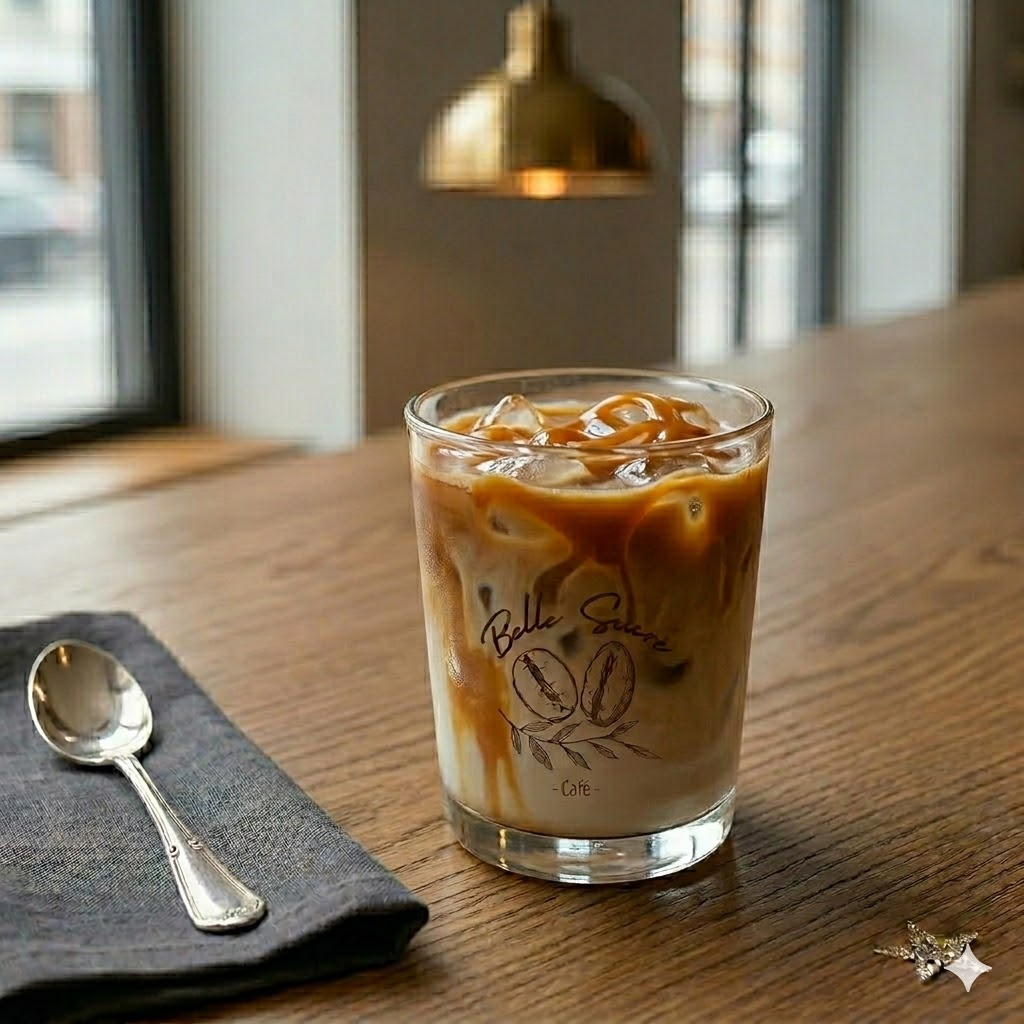
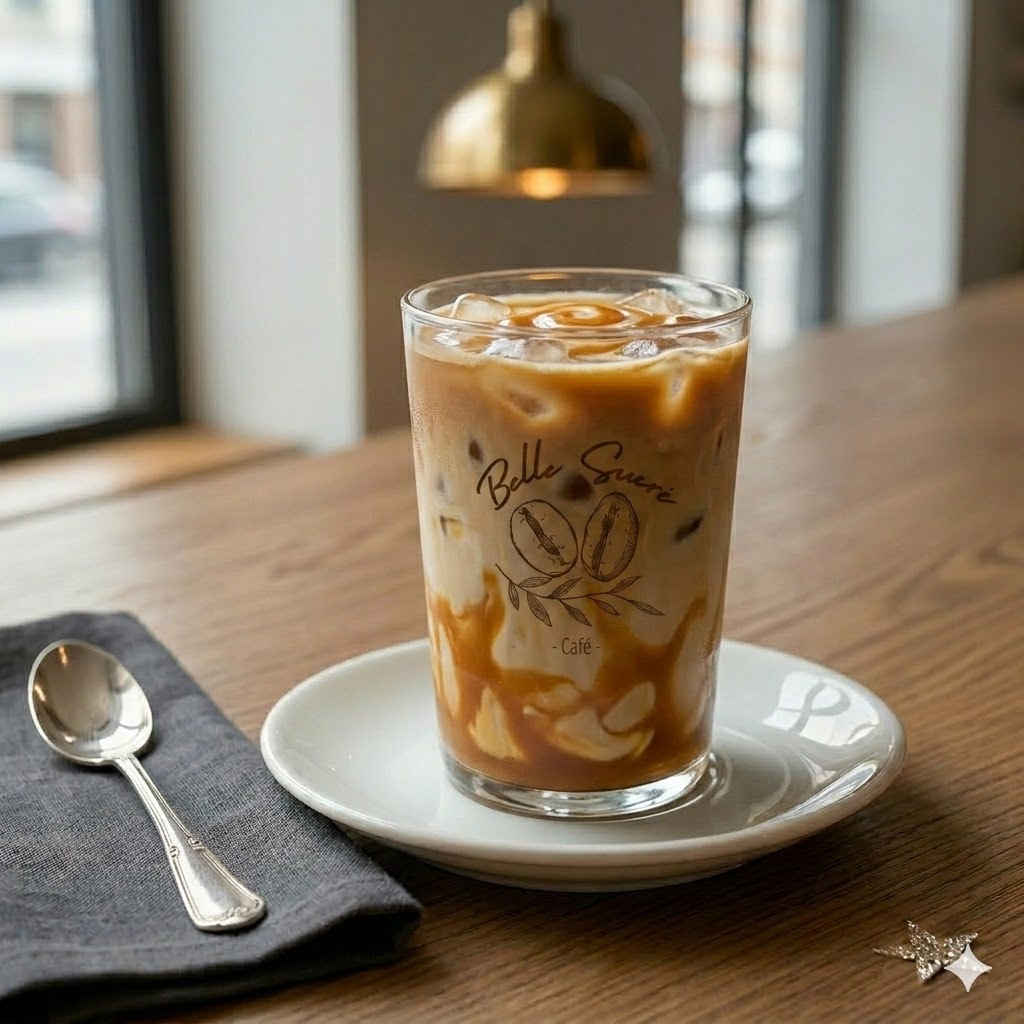
Finalizando algumas alterações novas.

Changed region(s): [[0.0, 0.25, 1.0, 0.9688], [0.0312, 0.625, 0.0625, 0.6562]]

diff --git a/public/cardapio-user.html b/public/cardapio-user.html
@@ -8,7 +8,7 @@
     <meta name="viewport" content="width=device-width, initial-scale=1.0">
     <title>Belle Sucré Café - Cardápio</title>
     <link rel="stylesheet" href="./style.css">
-    <link rel="shortcut icon" href="./Images/logobranca.png" type="image/x-icon">
+    <link rel="shortcut icon" href="./Images/logo.png" type="image/x-icon">
     
     <style>
         .modal-overlay {
@@ -228,13 +228,25 @@
             <div class="produtos">
                 <div class="img-container"><img src="./Images/iceCoffe.png" alt="Café Gelado Caramelizado"></div>
                 <div class="infos-produto">
-                    <h1>Café Gelado Caramelizado</h1>
+                    <h1>Café Gelado</h1>
                     <p class="preco">R$ 3,50</p>
                     <button class="btn-comprar" onclick="confirmarAdicao(14, 'Café Gelado Caramelizado')">
                         <ion-icon name="cart-outline"></ion-icon> Adicionar
                     </button>
                 </div>
             </div>
+
+            <div class="produtos">
+                <div class="img-container"><img src="./Images/chocolate-quente.jpg" alt="Chocolate quente"></div>
+                <div class="infos-produto">
+                    <h1>Chocolate Quente</h1>
+                    <p class="preco">R$ 5,50</p>
+                    <button class="btn-comprar" onclick="confirmarAdicao(15, 'Chocolate Quente')">
+                        <ion-icon name="cart-outline"></ion-icon> Adicionar
+                    </button>
+                </div>
+            </div>
+            
         </div>
     </div>
     <footer>

diff --git a/public/dashboard-funcionario.html b/public/dashboard-funcionario.html
@@ -4,7 +4,9 @@
     <meta charset="UTF-8">
     <meta name="viewport" content="width=device-width, initial-scale=1.0">
     <title>Admin Dashboard - Belle Sucré</title>
-    <link href="https://fonts.googleapis.com/css2?family=Magra:wght@400;700&display=swap" rel="stylesheet">
+    <link rel="shortcut icon" href="./Images/logo.png" type="image/x-icon">
+    <link rel="shortcut icon" href="./Images/logo.jpeg" type="image/x-icon">
+
     <style>
         :root {
             --sidebar-color: #4b2c15;
@@ -179,14 +181,11 @@
 
     <div class="sidebar">
         <h2>Admin Dashboard</h2>
-        <div class="nav-item" onclick="showSection('pedidos', this)">
+        <div class="nav-item">
             <ion-icon name="cafe-outline"></ion-icon> Belle Sucré Café
         </div>
         <div class="nav-item active" onclick="showSection('pedidos', this)">
             <ion-icon name="receipt-outline"></ion-icon> Pedidos
-        </div>
-        <div class="nav-item" onclick="showSection('cadastro', this)">
-            <ion-icon name="add-circle-outline"></ion-icon> Novo Produto
         </div>
         
         <div class="nav-item logout-item" id="btn-logout" style="margin-top: auto; color: #ffab91; border-top: 1px solid rgba(255,255,255,0.1);">

diff --git a/public/cardapio.html b/public/cardapio.html
@@ -7,7 +7,7 @@
     <link href="https://fonts.googleapis.com/css2?family=Magra:wght@400;700&display=swap" rel="stylesheet">    <meta charset="UTF-8">
     <meta name="viewport" content="width=device-width, initial-scale=1.0">
     <title>Belle Sucré Café - Cardápio </title>
-    <link rel="shortcut icon" href="./Images/logobranca.png" type="image/x-icon">
+    <link rel="shortcut icon" href="./Images/logo.png" type="image/x-icon">
     <link rel="stylesheet" href="./style.css">
     <script src="index.js"></script>
 </head>

diff --git a/public/carrinho-user.html b/public/carrinho-user.html
@@ -8,7 +8,7 @@
     <meta name="viewport" content="width=device-width, initial-scale=1.0">
     <title>Belle Sucré Café - Carrinho</title>
     <link rel="stylesheet" href="./style.css">
-    <link rel="shortcut icon" href="./Images/logobranca.png" type="image/x-icon">
+    <link rel="shortcut icon" href="./Images/logo.png" type="image/x-icon">
     <script src="index.js"></script>
 </head>
 <body>

diff --git a/public/carrinho.html b/public/carrinho.html
@@ -7,7 +7,7 @@
     <link href="https://fonts.googleapis.com/css2?family=Magra:wght@400;700&display=swap" rel="stylesheet">    <meta charset="UTF-8">
     <meta name="viewport" content="width=device-width, initial-scale=1.0">
     <title>Belle Sucré Café - Carrinho </title>
-    <link rel="shortcut icon" href="./Images/logobranca.png" type="image/x-icon">
+    <link rel="shortcut icon" href="./Images/logo.png" type="image/x-icon">
     <link rel="stylesheet" href="style.css">
     <script src="index.js"></script>
 </head>

diff --git a/public/esqueci-senha.html b/public/esqueci-senha.html
@@ -6,7 +6,7 @@
     <meta name="viewport" content="width=device-width, initial-scale=1.0">
     <title>Belle Sucré Café - Esqueci a Senha</title>
     <link rel="stylesheet" href="./style.css">
-    <link rel="shortcut icon" href="./Images/logobranca.png" type="image/x-icon">
+    <link rel="shortcut icon" href="./Images/logo.png" type="image/x-icon">
     <style>
         .reset-container {
             width: 50%;

diff --git a/public/historia-user.html b/public/historia-user.html
@@ -8,7 +8,7 @@
     <meta name="viewport" content="width=device-width, initial-scale=1.0">
     <title>Belle Sucré Café - História</title>
     <link rel="stylesheet" href="./style.css">
-    <link rel="shortcut icon" href="./Images/logobranca.png" type="image/x-icon">
+    <link rel="shortcut icon" href="./Images/logo.png" type="image/x-icon">
     <script src="index.js"></script>
     <style>
         

diff --git a/public/historia.html b/public/historia.html
@@ -7,7 +7,7 @@
     <link href="https://fonts.googleapis.com/css2?family=Magra:wght@400;700&display=swap" rel="stylesheet">    <meta charset="UTF-8">
     <meta name="viewport" content="width=device-width, initial-scale=1.0">
     <title>Belle Sucré Café - História</title>
-    <link rel="shortcut icon" href="./Images/logobranca.png" type="image/x-icon">
+    <link rel="shortcut icon" href="./Images/logo.png" type="image/x-icon">
     <link rel="stylesheet" href="./style.css">
     <script src="index.js"></script>
 </head>

diff --git a/public/index.html b/public/index.html
@@ -7,7 +7,7 @@
     <meta name="viewport" content="width=device-width, initial-scale=1.0">
     <title>Belle Sucré Café</title>
     <link rel="stylesheet" href="./style.css">
-    <link rel="shortcut icon" href="./Images/logobranca.png" type="image/x-icon">
+    <link rel="shortcut icon" href="./Images/logo.png" type="image/x-icon">
     <script src="index.js"></script>
 </head>
 <body>

diff --git a/public/inicio-user.html b/public/inicio-user.html
@@ -9,7 +9,7 @@
     <meta name="viewport" content="width=device-width, initial-scale=1.0">
     <title>Belle Sucré Café</title>
     <link id="theme-link" rel="stylesheet" href="style.css">
-    <link rel="shortcut icon" href="./Images/logobranca.png" type="image/x-icon">
+    <link rel="shortcut icon" href="./Images/logo.png" type="image/x-icon">
     <script src="index.js"></script>
 </head>
 <body>

diff --git a/public/jornal-user.html b/public/jornal-user.html
@@ -6,7 +6,7 @@
     <meta name="viewport" content="width=device-width, initial-scale=1.0">
     <title>Belle Sucré Café - Jornal</title>
     <link rel="stylesheet" href="./style.css">
-    <link rel="shortcut icon" href="./Images/logobranca.png" type="image/x-icon">
+    <link rel="shortcut icon" href="./Images/logo.png" type="image/x-icon">
     <style>
     /* Container do slideshow */
 .slideshow-container-jornal {

diff --git a/public/jornal.html b/public/jornal.html
@@ -6,7 +6,7 @@
     <meta charset="UTF-8">
     <meta name="viewport" content="width=device-width, initial-scale=1.0">
     <title>Belle Sucré Café - Jornal</title>
-    <link rel="shortcut icon" href="./Images/logobranca.png" type="image/x-icon">
+    <link rel="shortcut icon" href="./Images/logo.png" type="image/x-icon">
     <link rel="stylesheet" href="./style.css">
     <script src="index.js"></script>
 </head>